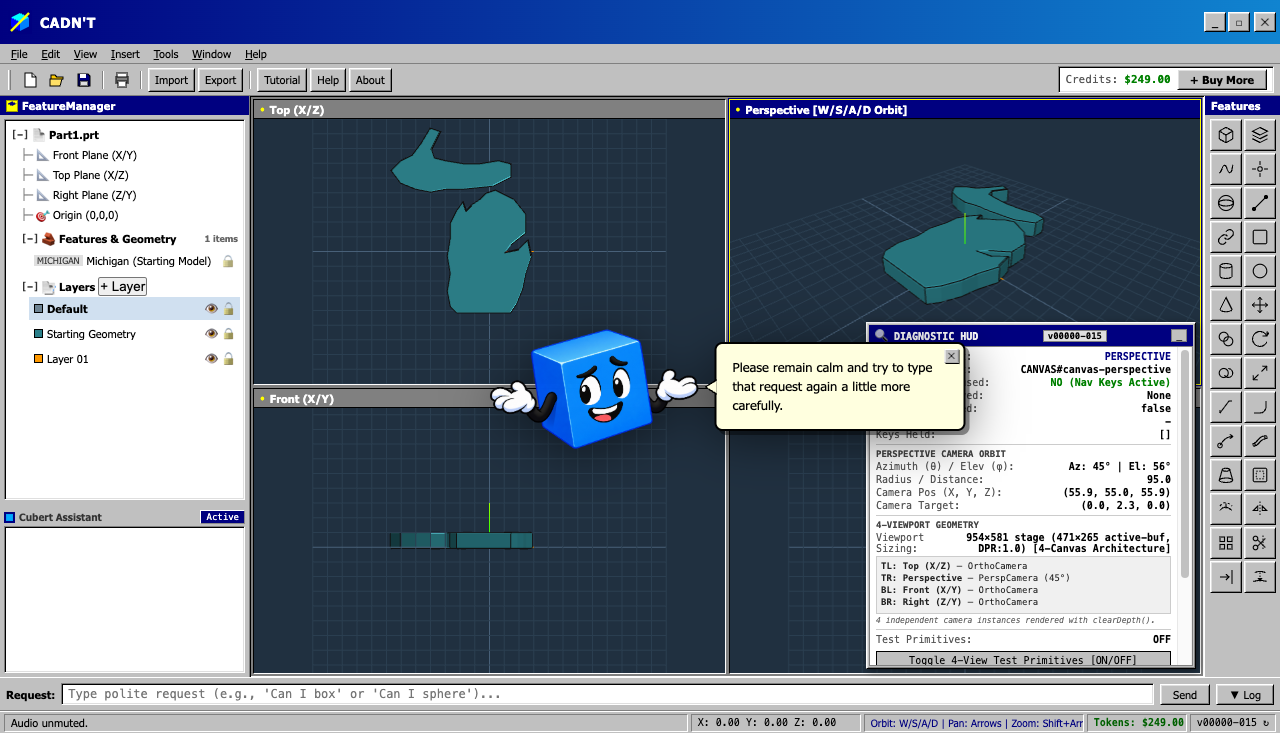
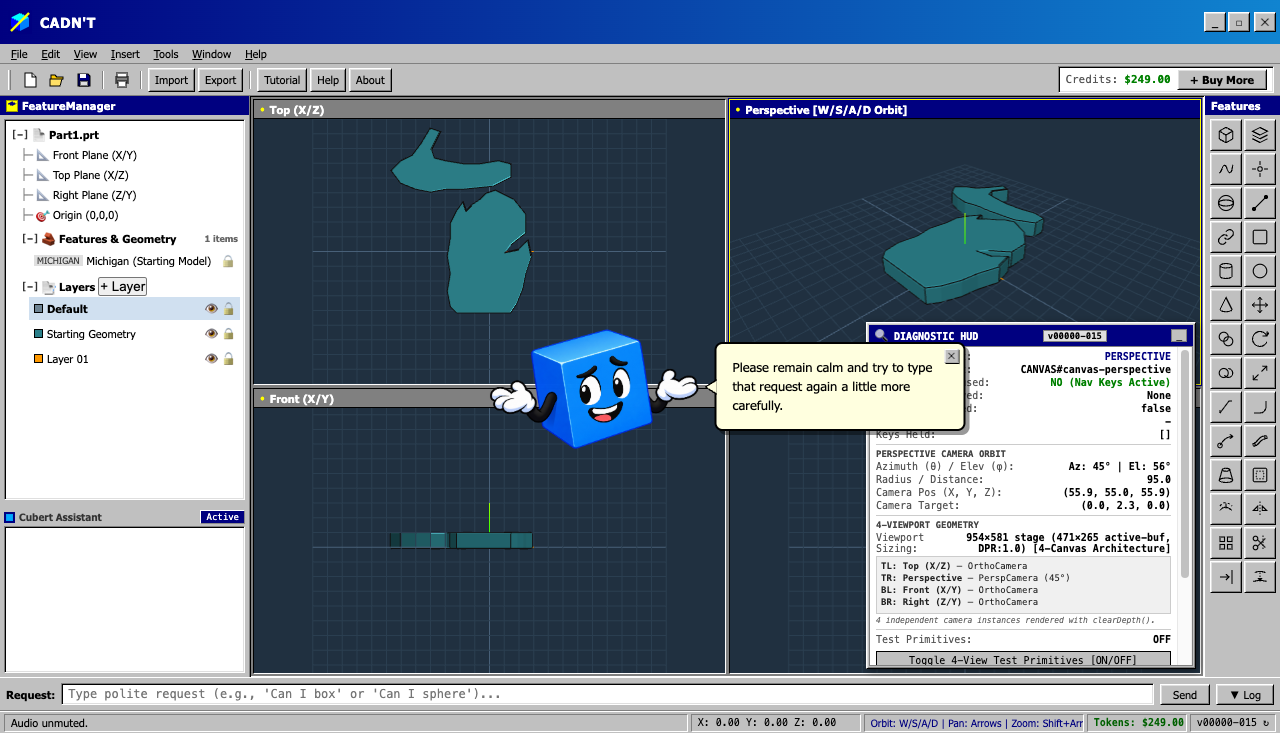
fix(cubert): remove baked-in blue ground shadow from cheerful asset and remove CSS drop-shadow

Changed region(s): [[0.6562, 0.4802, 0.7812, 0.6303], [0.5, 0.5102, 0.5625, 0.5703], [0.6875, 0.4502, 0.75, 0.4802]]

diff --git a/index.html b/index.html
@@ -680,7 +680,6 @@
     pointer-events: none;
     user-select: none;
     max-width: 90%;
-    filter: drop-shadow(0px 8px 24px rgba(0, 0, 0, 0.5));
   }
 
   .cubert-character-wrap {

diff --git a/cubert_gallery.html b/cubert_gallery.html
@@ -105,7 +105,6 @@
     width: 110px;
     height: 110px;
     object-fit: contain;
-    filter: drop-shadow(0 4px 8px rgba(0,0,0,0.6));
   }
   .bubble {
     background: #ffffdf;
